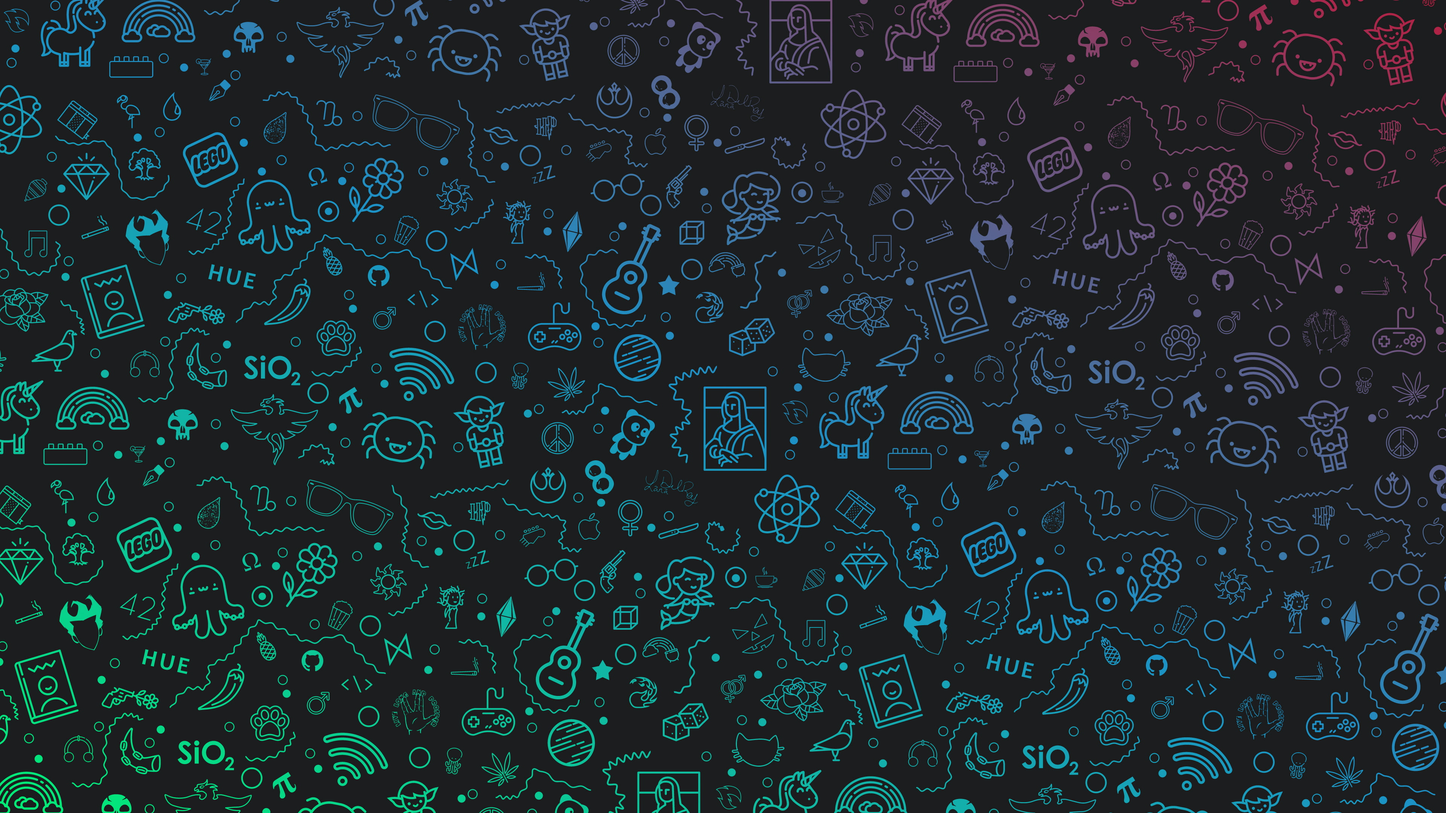
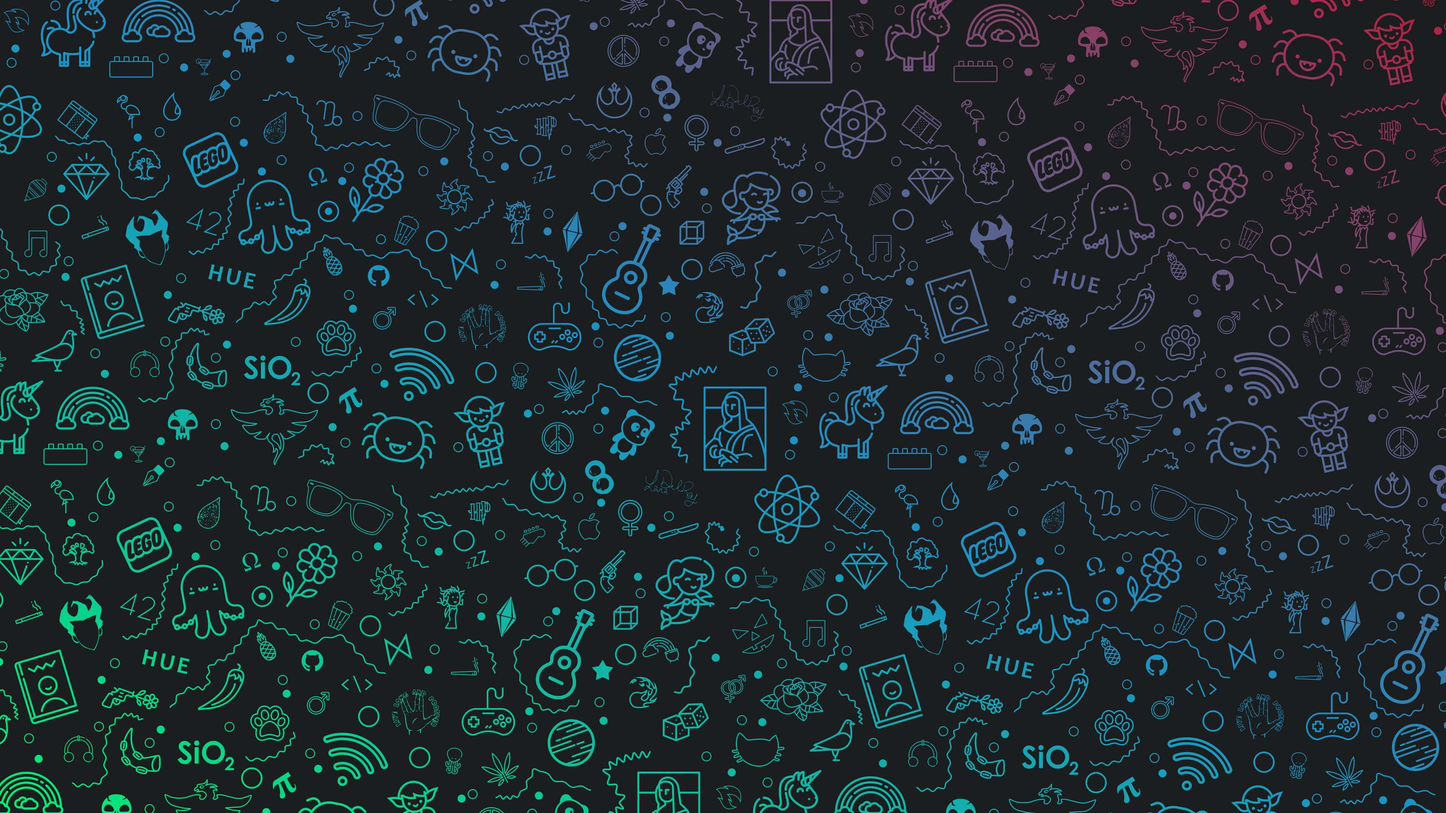
Se agregaron estilos css al header y se redimensiono la foto

diff --git a/css/estilos.css b/css/estilos.css
@@ -1,5 +1,77 @@
-/* font-family: 'Open Sans', sans-serif; */
+* {
+    box-sizing: border-box;
+}
 
+body {
+    background: #fff;
+    font-family: 'Open Sans', sans-serif;
+    font-size: 16px;
+}
 
+.contenedor {
+    width: 90%;
+    max-width: 1000px;
+    margin: auto; /*Para centrar los elementos*/
+    overflow: hidden;
+}
 
+/* ----- ----- HEADER ----- ----- */
+header {
+    background: url(../img/bg.jpg) #4fd531;
+    background-repeat: no-repeat;
+    background-position: center;
+    max-height: 600px;
+}
 
+header .menu {
+    margin: 40px 0;
+    text-align: right;
+
+}
+
+header .menu a {
+    margin: 0 20px;
+    color: #fff;
+    padding-bottom: 9px;
+    display: inline-block;
+    text-decoration: none;
+    border-bottom: 2px solid transparent; /*Para que no haiga un salto al pasar el mouse*/
+    font-size: 1em; /*1em significan 16 pixeles*/
+}
+
+header .menu a:hover {
+    border-bottom: 2px solid #fff;
+}
+
+header .contenedor-texto {
+    display: flex;
+    justify-content: center;
+    align-content: center;
+    margin: 190px 0;
+}
+
+header .contenedor-texto .texto {
+    border: 2px solid rgba(255, 255, 255, 0.5);
+    border-radius: 3px;
+    display: inline-block;
+    text-align: center;
+    padding: 20px 60px;
+}
+
+header .contenedor-texto .texto h1,
+header .contenedor-texto .texto h2 {
+    color: #fff;
+    font-weight: 300;
+    margin: 0;
+}
+
+header .contenedor-texto .texto .nombre {
+    margin-bottom: 10px;
+    font-size: 50px;
+    line-height: 50px;
+}
+
+header .contenedor-texto .texto .profesion {
+    font-size: 25px;
+    line-height: 25px;
+}
